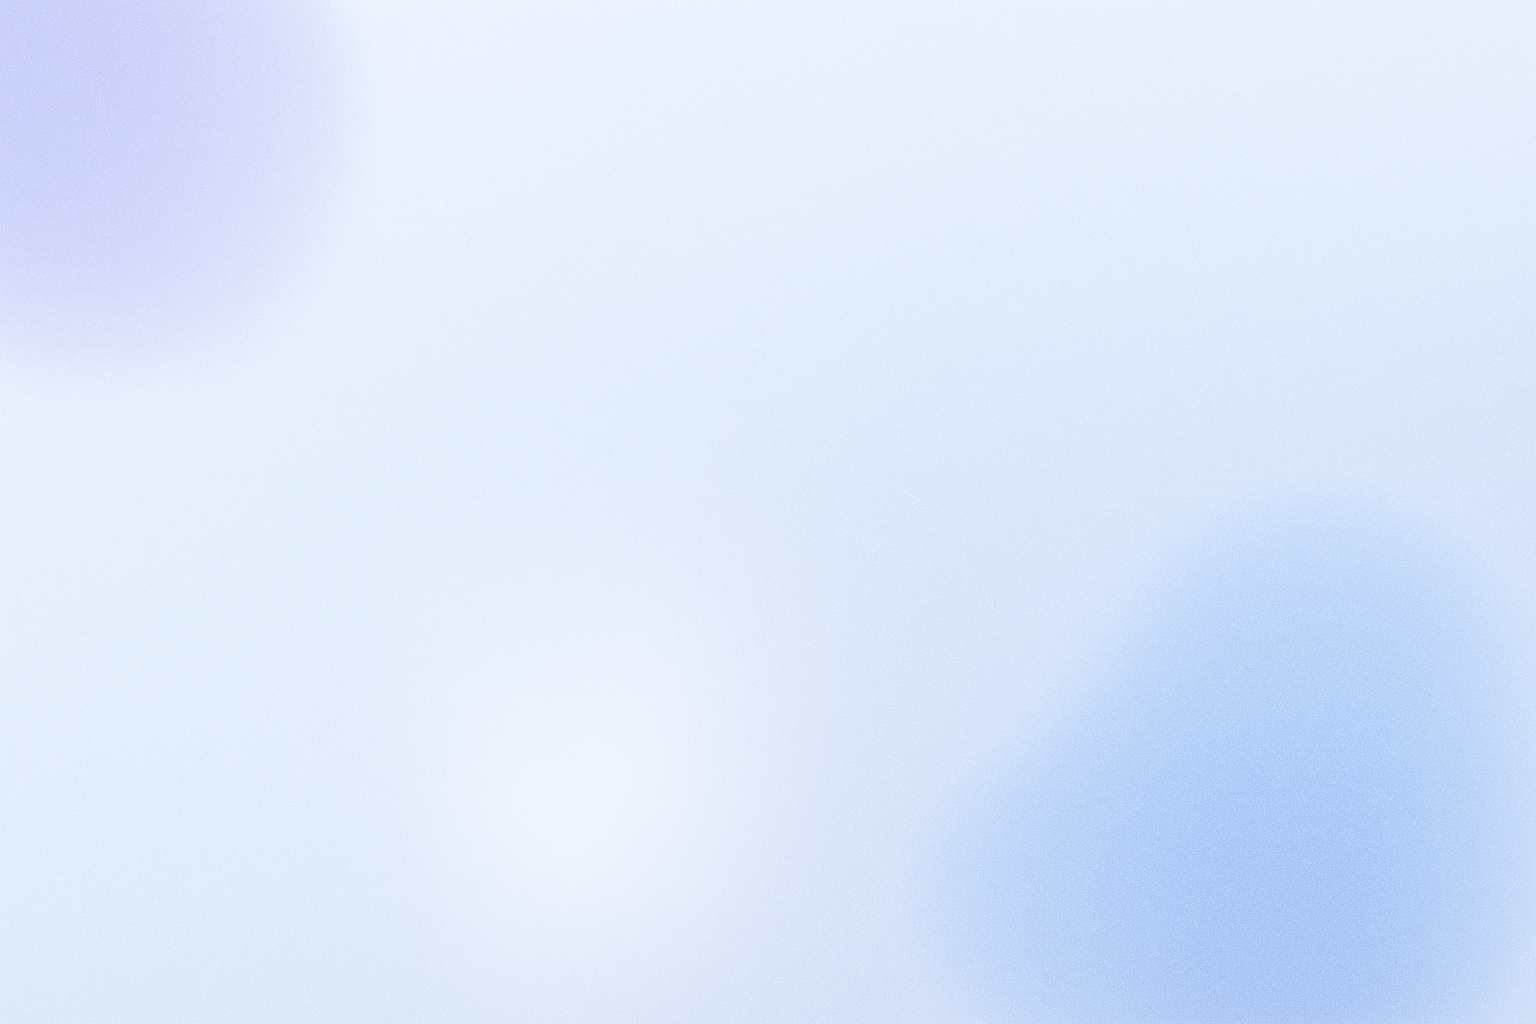
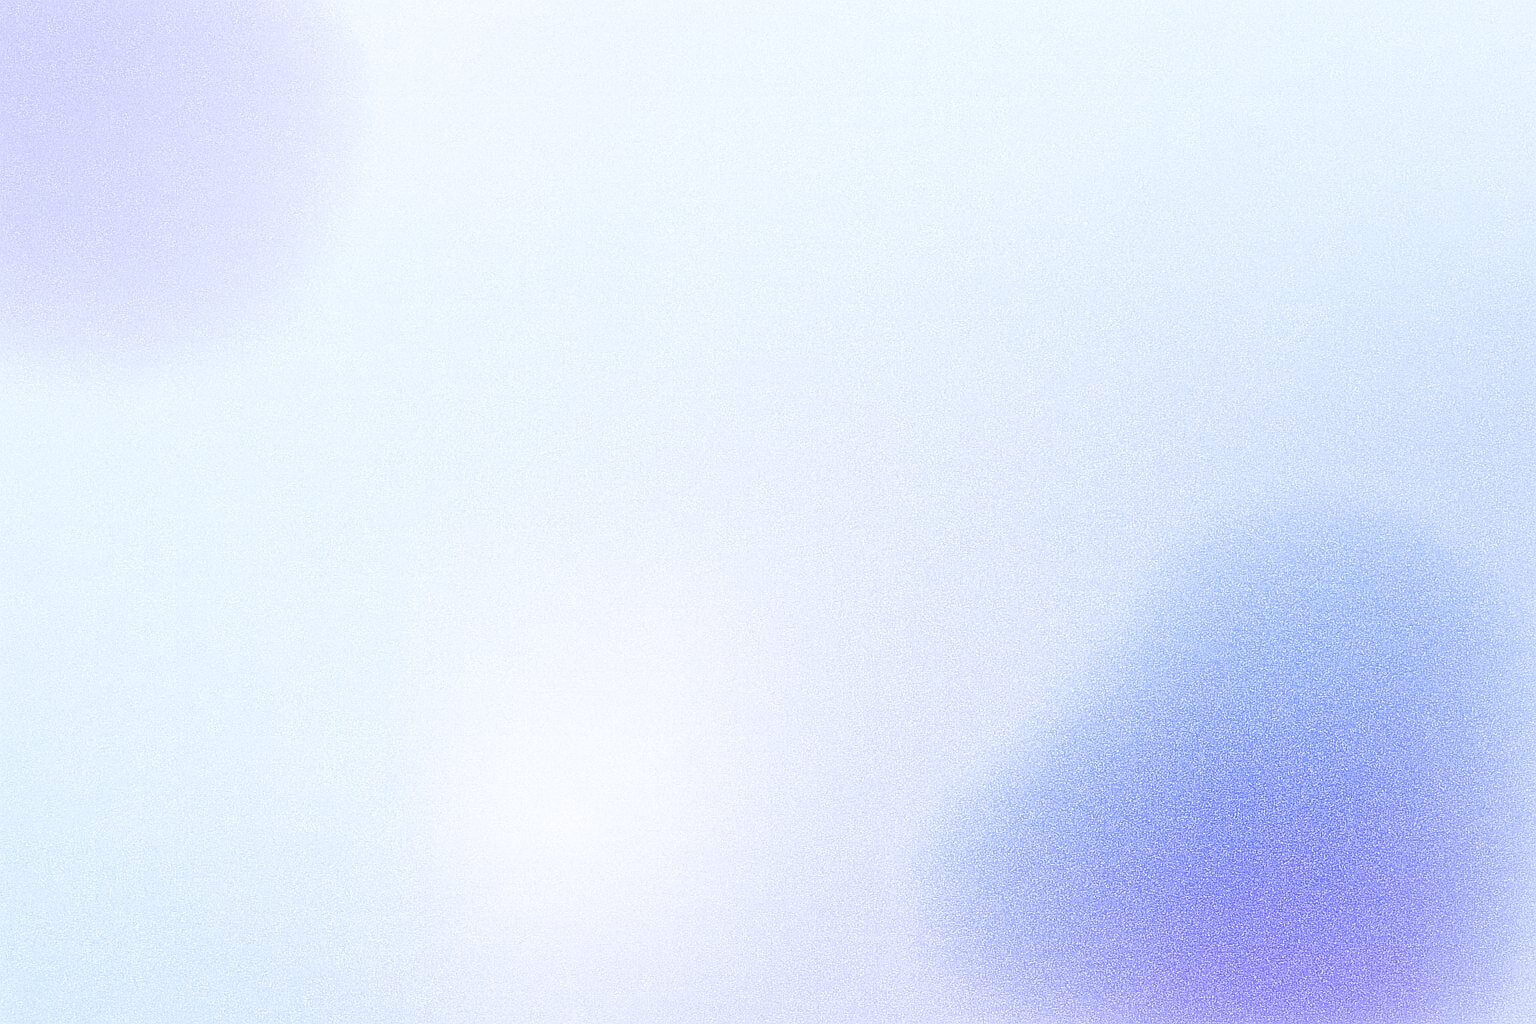
style: melhorias visuais no HeroSection e reforço do background
- Aplicado novo background com maior intensidade para melhor contraste
- Adicionado card glass ao HeroSection para reforçar profundidade
- Inserido blur, bordas e sombras mais suaves para efeito
- Ajustado layout, margens e espaçamento do conteúdo
- Refinado posicionamento do texto e elementos decorativos

Changed region(s): [[0.5938, 0.5, 1.0, 1.0]]

diff --git a/site_athena_academy/lib/sections/hero_section/hero_section.dart b/site_athena_academy/lib/sections/hero_section/hero_section.dart
@@ -1,99 +1,23 @@
 import 'package:flutter/material.dart';
+import 'hero_background.dart';
+import 'hero_card.dart';
 
-import 'package:site_athena_academy/sections/hero_section/hero_buttons.dart';
-import 'package:site_athena_academy/theme/text_style.dart';
-
-class HeroSection extends StatefulWidget {
+class HeroSection extends StatelessWidget {
   const HeroSection({super.key});
 
   @override
-  State<HeroSection> createState() => _HeroSectionState();
-}
-
-class _HeroSectionState extends State<HeroSection> {
-  @override
   Widget build(BuildContext context) {
-    return Container(
-      decoration: BoxDecoration(),
-      child: Padding(
-        padding: const EdgeInsets.all(32.0),
-        child: LayoutBuilder(
-          builder: (context, constraints) {
-            final bool isMobile = constraints.maxWidth < 900;
+    return SizedBox(
+      width: double.infinity,
+      child: Stack(
+        children: [
+          /// 🔮 Camada de efeitos IA
+          const HeroBackground(),
 
-            return Flex(
-              direction: isMobile ? Axis.vertical : Axis.horizontal,
-              mainAxisAlignment: MainAxisAlignment.center,
-              crossAxisAlignment: CrossAxisAlignment.center,
-              children: [
-                Expanded(
-                  flex: isMobile ? 0 : 1,
-                  child: Padding(
-                    padding: EdgeInsets.only(
-                      right: isMobile ? 0 : 32,
-                      bottom: isMobile ? 32 : 0,
-                    ),
-                    child: _buildTextContent(),
-                  ),
-                ),
-
-                // IMAGE AREA
-                Expanded(
-                  flex: isMobile ? 0 : 1,
-                  child: Center(
-                    child: Image.asset(
-                      'assets/imagens/hero_1.png',
-                      width: isMobile ? 350 : 550,
-                      fit: BoxFit.contain,
-                    ),
-                  ),
-                ),
-              ],
-            );
-          },
-        ),
+          /// ❄ Card principal com glass + conteúdo
+          const HeroCard(),
+        ],
       ),
-    );
-  }
-
-  Widget _buildTextContent() {
-    return Column(
-      crossAxisAlignment: CrossAxisAlignment.center,
-      children: [
-        Column(
-          crossAxisAlignment: CrossAxisAlignment.center,
-          mainAxisSize: MainAxisSize.min,
-          children: [
-            Image.asset('assets/imagens/logo_icon.png', width: 180),
-            const SizedBox(height: 12),
-            Text('ATHENA ACADEMY', style: AthenaTextStyle.display),
-          ],
-        ),
-
-        const SizedBox(height: 32),
-
-        RichText(
-          text: TextSpan(
-            children: [
-              TextSpan(
-                text: 'A plataforma educacional do futuro\n',
-                style: AthenaTextStyle.subtitle,
-              ),
-              TextSpan(text: '\n'),
-              TextSpan(
-                text:
-                    'Uma plataforma moderna, intuitiva e feita para aproximar escolas,\nprofessores, alunos e pais.',
-                style: AthenaTextStyle.small,
-              ),
-            ],
-          ),
-        ),
-
-        const SizedBox(height: 32),
-
-        // BUTTONS
-        const HeroButtons(),
-      ],
     );
   }
 }

diff --git a/site_athena_academy/lib/sections/hero_section/hero_background.dart b/site_athena_academy/lib/sections/hero_section/hero_background.dart
@@ -1,0 +1,109 @@
+import 'package:flutter/material.dart';
+import 'package:site_athena_academy/core/constants/colors.dart';
+
+class HeroBackground extends StatelessWidget {
+  const HeroBackground({super.key});
+
+  @override
+  Widget build(BuildContext context) {
+    return Positioned.fill(
+      child: Stack(
+        children: [
+          /// 🟣 Blob lilás (esquerda)
+          Positioned(
+            top: -120,
+            left: -80,
+            child: _Blob(
+              size: 420,
+              color: AthenaColors.primaryUltraLight.withOpacity(0.35),
+            ),
+          ),
+
+          /// 🔵 Blob azul (direita)
+          Positioned(
+            bottom: -150,
+            right: -120,
+            child: _Blob(
+              size: 460,
+              color: AthenaColors.accentUltraLight.withOpacity(0.32),
+            ),
+          ),
+
+          /// 🔮 Glow difuso orgânico (esquerda)
+          Positioned(
+            top: 160,
+            left: -40,
+            child: _DiffuseGlow(
+              size: 520,
+              color: AthenaColors.accentSoft.withOpacity(0.12),
+            ),
+          ),
+
+          /// 💠 Glow difuso secundário (harmonização)
+          Positioned(
+            top: 280,
+            left: 200,
+            child: _DiffuseGlow(
+              size: 360,
+              color: AthenaColors.primarySoft.withOpacity(0.08),
+            ),
+          ),
+        ],
+      ),
+    );
+  }
+}
+
+/// 🌀 Blob grande com blur suave
+class _Blob extends StatelessWidget {
+  final double size;
+  final Color color;
+
+  const _Blob({required this.size, required this.color});
+
+  @override
+  Widget build(BuildContext context) {
+    return Container(
+      width: size,
+      height: size,
+      decoration: BoxDecoration(
+        shape: BoxShape.circle,
+        color: color,
+        boxShadow: [
+          /// efeito de “volume”
+          BoxShadow(
+            color: color,
+            blurRadius: 180,
+            spreadRadius: 60,
+          ),
+        ],
+      ),
+    );
+  }
+}
+
+/// 🔮 Glow orgânico difuso
+class _DiffuseGlow extends StatelessWidget {
+  final double size;
+  final Color color;
+
+  const _DiffuseGlow({required this.size, required this.color});
+
+  @override
+  Widget build(BuildContext context) {
+    return Container(
+      width: size,
+      height: size,
+      decoration: BoxDecoration(
+        borderRadius: BorderRadius.circular(size),
+        gradient: RadialGradient(
+          colors: [
+            color,
+            Colors.transparent,
+          ],
+          radius: 0.85,
+        ),
+      ),
+    );
+  }
+}

diff --git a/site_athena_academy/lib/sections/hero_section/hero_card.dart b/site_athena_academy/lib/sections/hero_section/hero_card.dart
@@ -1,0 +1,82 @@
+import 'package:flutter/material.dart';
+import 'package:site_athena_academy/sections/hero_section/hero_mockoup.dart';
+import 'hero_text.dart';
+
+
+class HeroCard extends StatelessWidget {
+  const HeroCard({super.key});
+
+  @override
+  Widget build(BuildContext context) {
+    return Padding(
+      padding: const EdgeInsets.all(32),
+      child: Container(
+        padding: const EdgeInsets.all(40),
+        decoration: _prismGlass,
+
+        /// Layout responsivo do hero
+        child: LayoutBuilder(
+          builder: (context, constraints) {
+            final bool mobile = constraints.maxWidth < 900;
+
+            return Flex(
+              direction: mobile ? Axis.vertical : Axis.horizontal,
+              mainAxisAlignment: MainAxisAlignment.center,
+              crossAxisAlignment: CrossAxisAlignment.center,
+              children: [
+                /// Texto
+                Expanded(
+                  flex: mobile ? 0 : 1,
+                  child: Padding(
+                    padding: EdgeInsets.only(
+                      right: mobile ? 0 : 32,
+                      bottom: mobile ? 32 : 0,
+                    ),
+                    child: const HeroText(),
+                  ),
+                ),
+
+                /// Mockup flutuando (IA MAX)
+                Expanded(
+                  flex: mobile ? 0 : 1,
+                  child: const HeroMockup(),
+                ),
+              ],
+            );
+          },
+        ),
+      ),
+    );
+  }
+}
+
+/// ❄ Efeito Glass Prismático Avançado
+final BoxDecoration _prismGlass = BoxDecoration(
+  borderRadius: BorderRadius.circular(32),
+  color: Colors.white.withOpacity(0.10),
+
+  /// Borda luminosa prismática
+  border: Border.all(
+    color: Colors.white.withOpacity(0.28),
+    width: 1.2,
+  ),
+
+  /// Sombra premium IA
+  boxShadow: [
+    BoxShadow(
+      color: Colors.black.withOpacity(0.08),
+      blurRadius: 40,
+      offset: Offset(0, 22),
+    ),
+  ],
+
+  /// Gradiente prismático leve
+  gradient: LinearGradient(
+    begin: Alignment.topCenter,
+    end: Alignment.bottomCenter,
+    colors: [
+      Colors.white.withOpacity(0.25),
+      Colors.white.withOpacity(0.08),
+    ],
+  ),
+);

diff --git a/site_athena_academy/lib/sections/hero_section/hero_text.dart b/site_athena_academy/lib/sections/hero_section/hero_text.dart
@@ -1,0 +1,48 @@
+import 'package:flutter/material.dart';
+import 'package:site_athena_academy/sections/hero_section/hero_buttons.dart';
+import 'package:site_athena_academy/theme/text_style.dart';
+
+class HeroText extends StatelessWidget {
+  const HeroText({super.key});
+
+  @override
+  Widget build(BuildContext context) {
+    return Column(
+      crossAxisAlignment: CrossAxisAlignment.center,
+      children: [
+        /// Logo + nome
+        Column(
+          children: [
+            Image.asset('assets/imagens/logo_icon.png', width: 180),
+            const SizedBox(height: 12),
+            Text('ATHENA ACADEMY', style: AthenaTextStyle.display),
+          ],
+        ),
+
+        const SizedBox(height: 32),
+
+        // Subtítulo
+        Text(
+          'A plataforma educacional do futuro',
+          textAlign: TextAlign.center,
+          style: AthenaTextStyle.subtitle,
+        ),
+
+        const SizedBox(height: 16),
+
+        // Descrição
+        Text(
+          'Uma plataforma moderna, intuitiva e feita para aproximar escolas,\n'
+          'professores, alunos e pais.',
+          textAlign: TextAlign.center,
+          style: AthenaTextStyle.small,
+        ),
+
+        const SizedBox(height: 32),
+
+        
+        HeroButtons(),
+      ],
+    );
+  }
+}

diff --git a/site_athena_academy/lib/sections/hero_section/hero_mockoup.dart b/site_athena_academy/lib/sections/hero_section/hero_mockoup.dart
@@ -1,0 +1,27 @@
+import 'package:flutter/material.dart';
+
+class HeroMockup extends StatelessWidget {
+  const HeroMockup({super.key});
+
+  @override
+  Widget build(BuildContext context) {
+    return Container(
+      
+      decoration: const BoxDecoration(
+        boxShadow: [
+          BoxShadow(
+            color: Color.fromARGB(80, 0, 0, 0),
+            blurRadius: 90,
+            offset: Offset(0, 50),
+          ),
+          BoxShadow(
+            color: Color.fromARGB(40, 255, 255, 255),
+            blurRadius: 140,
+            offset: Offset(0, 20),
+          ),
+        ],
+      ),
+      child: Image.asset('assets/imagens/hero_1.png', width: 450),
+    );
+  }
+}
